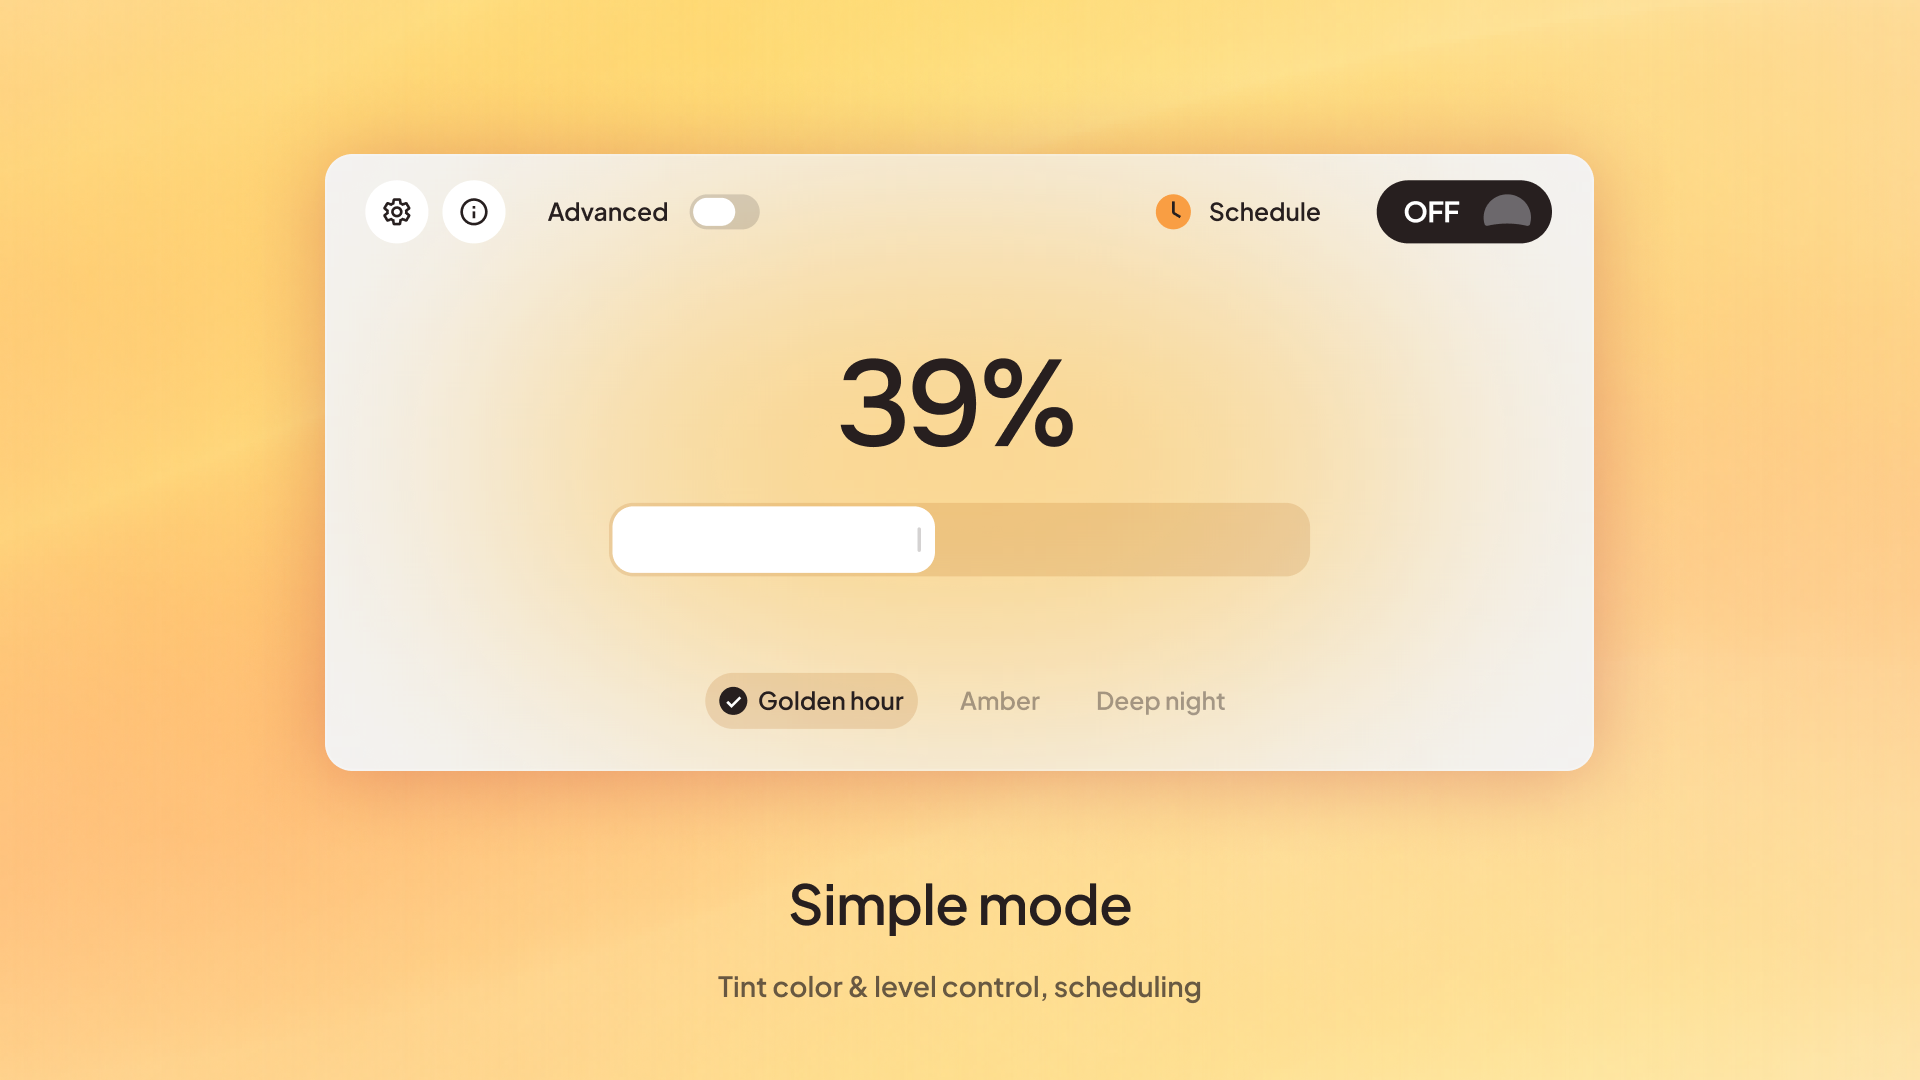
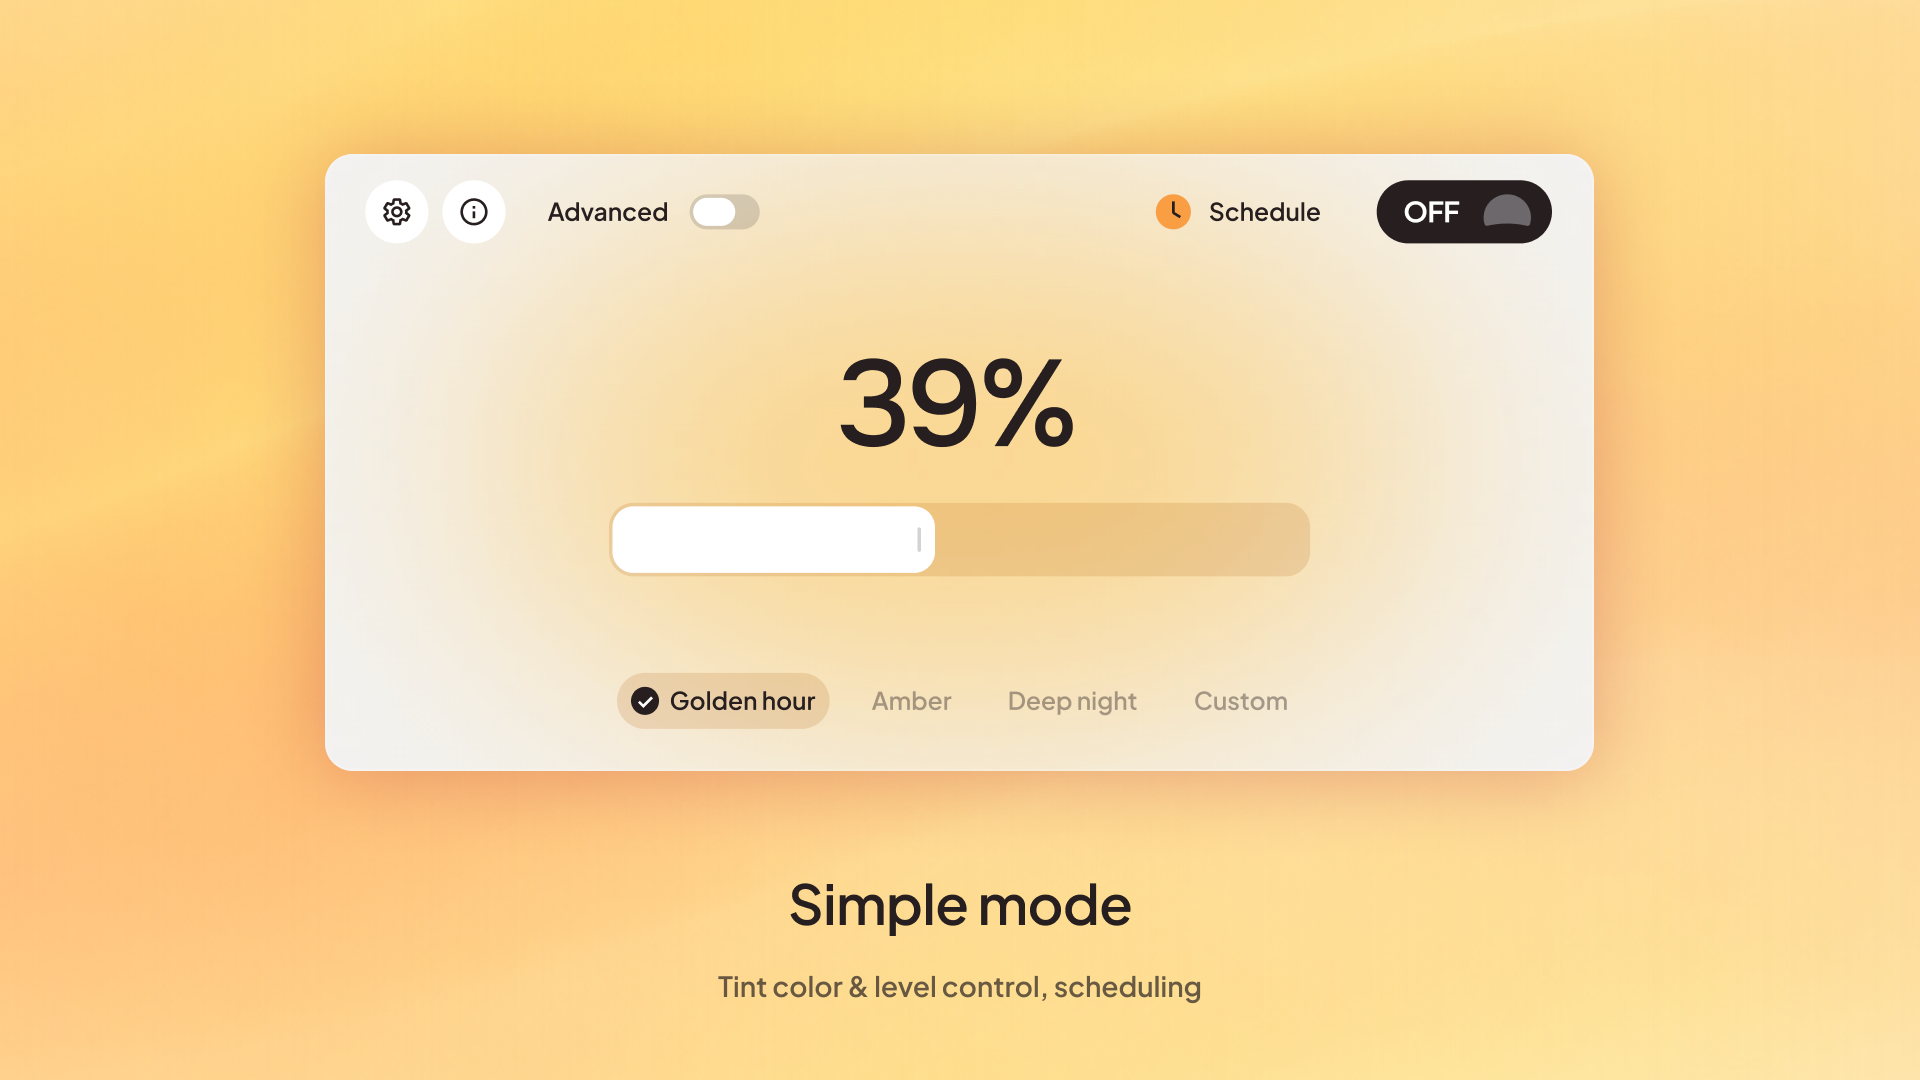
README: new cover and Simple mode images, and a tint types image

Changed region(s): [[0.3125, 0.6111, 0.6875, 0.6722]]

diff --git a/README.md b/README.md
@@ -36,6 +36,8 @@ just to make it work but to make it pleasant and easy to use.
 - **Deep night:** a red tint inspired by astronomy. Red light doesn't disturb your eyes' adaptation to the dark.
 - **Custom:** any color from the color bar. Dark colors are lightened just enough to keep the screen readable.
 
+![Tint types: Golden hour (yellow), Amber (orange), Deep night (red), plus a custom color](docs/images/tint-types.png)
+
 ## Download
 
 Get **`Amber-win-Setup.exe`** from the [latest release](https://github.com/darkcoldmatter/Amber/releases/latest)
